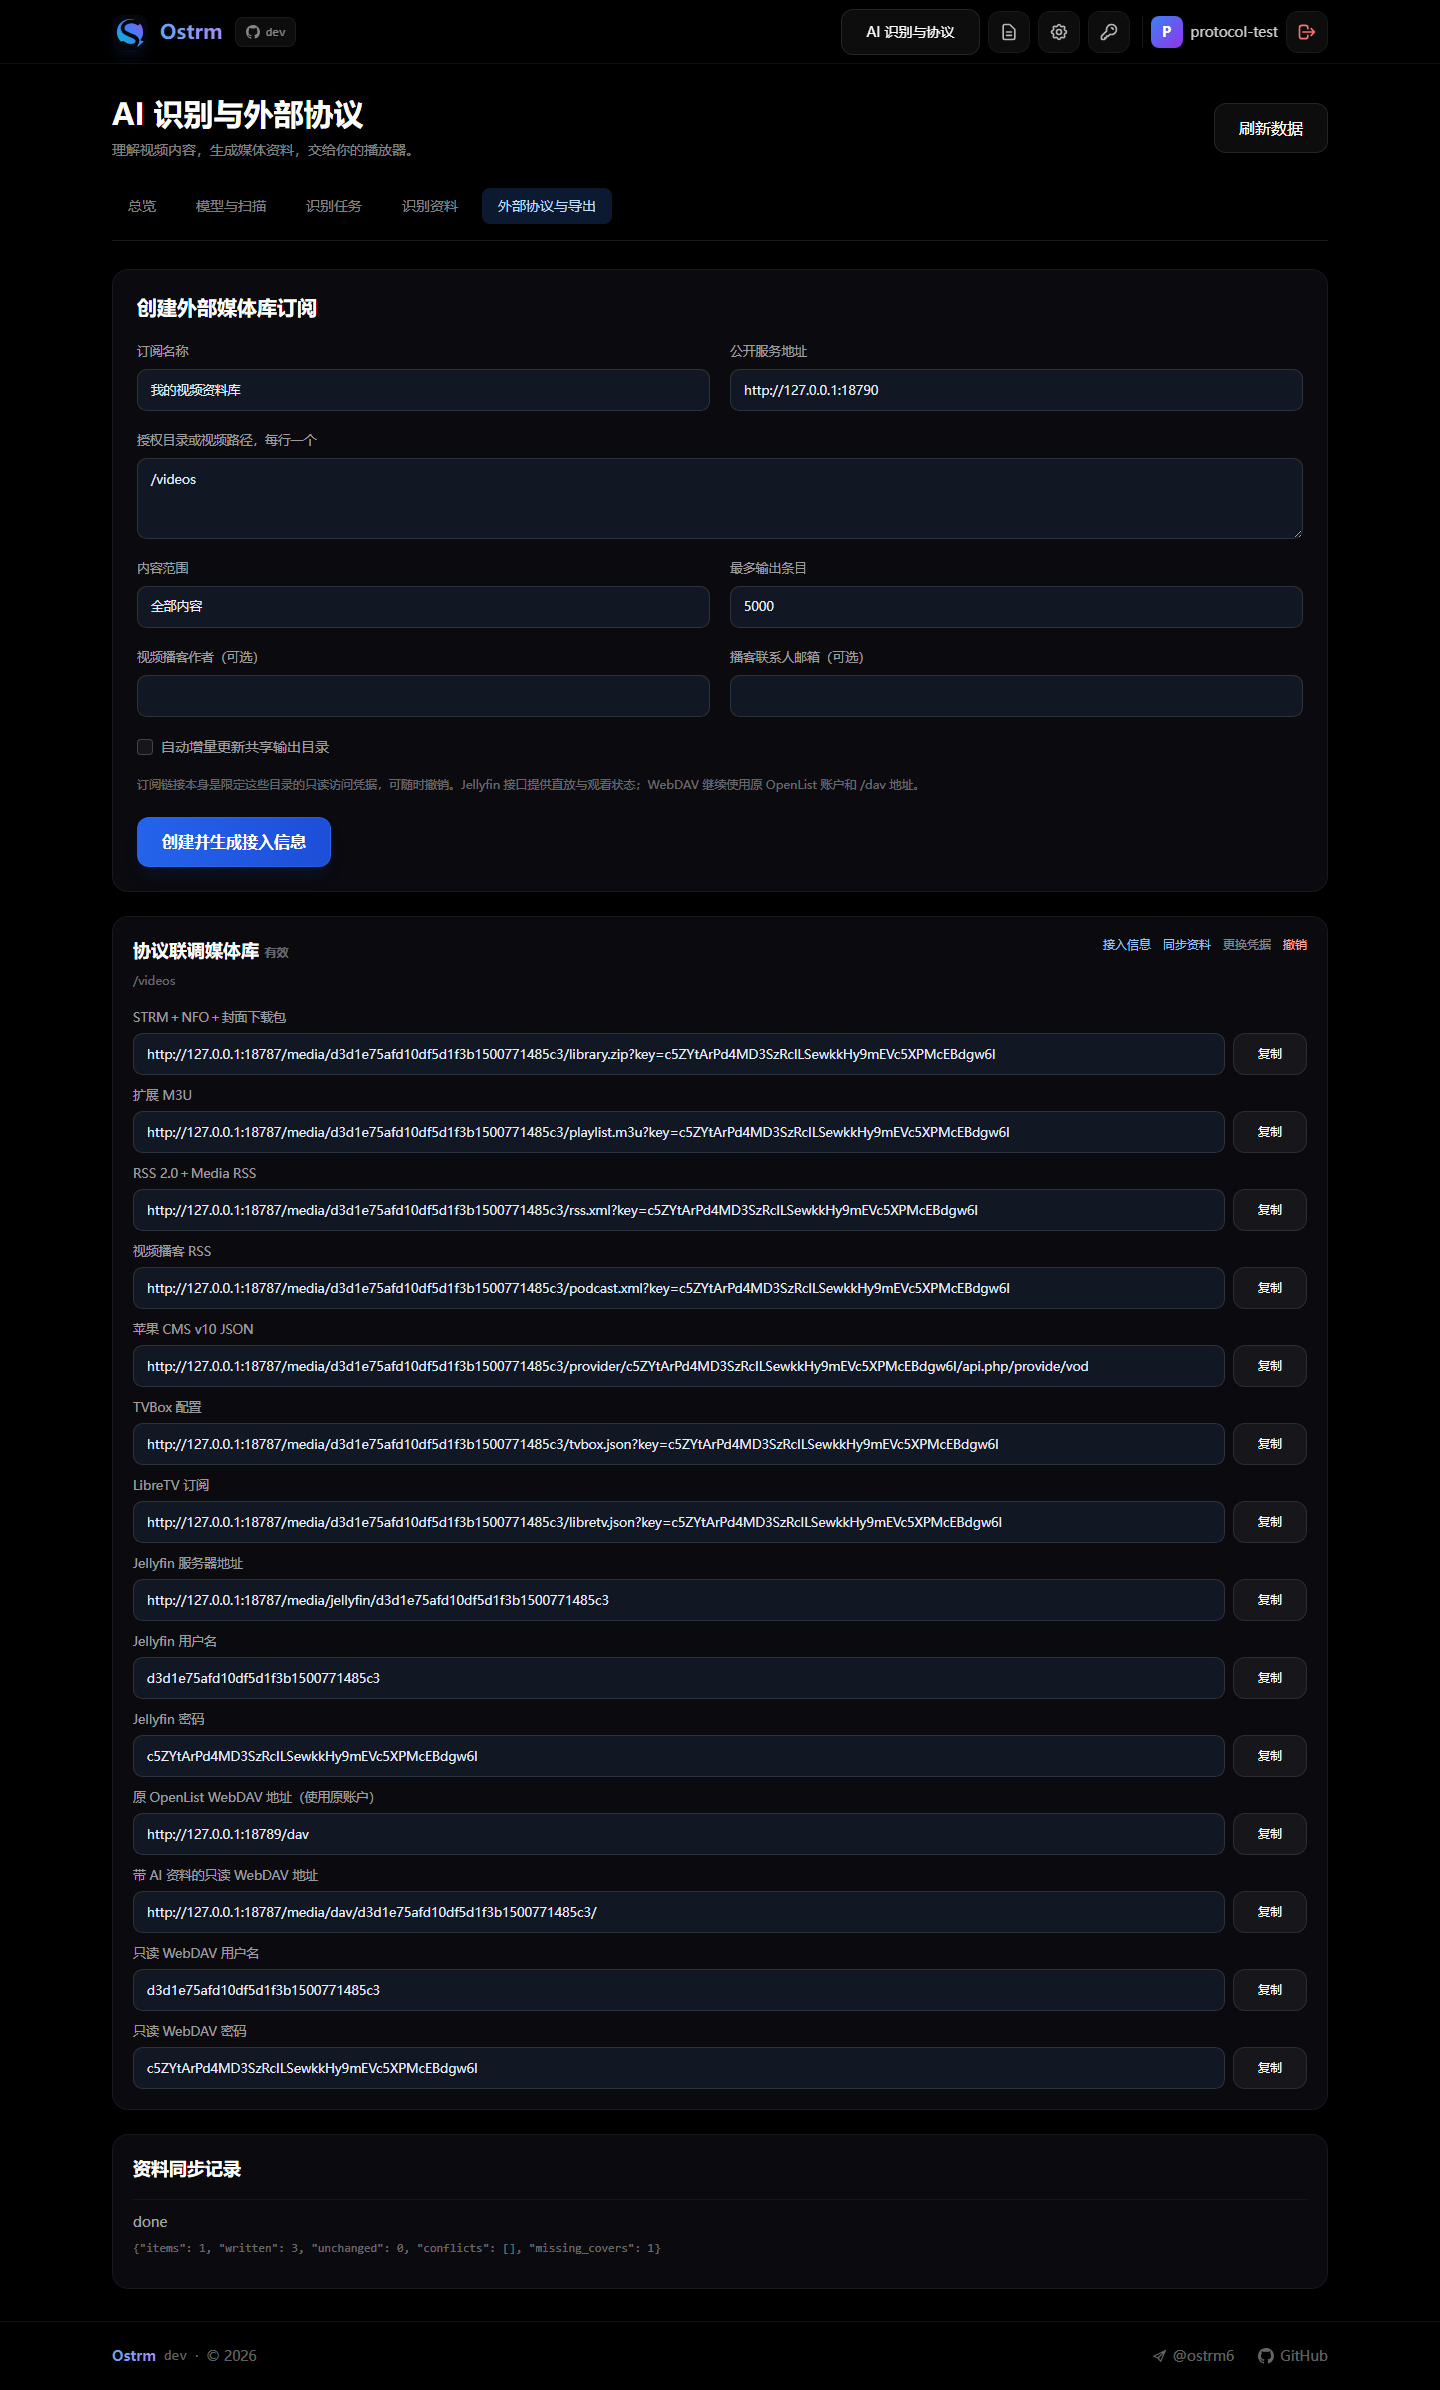
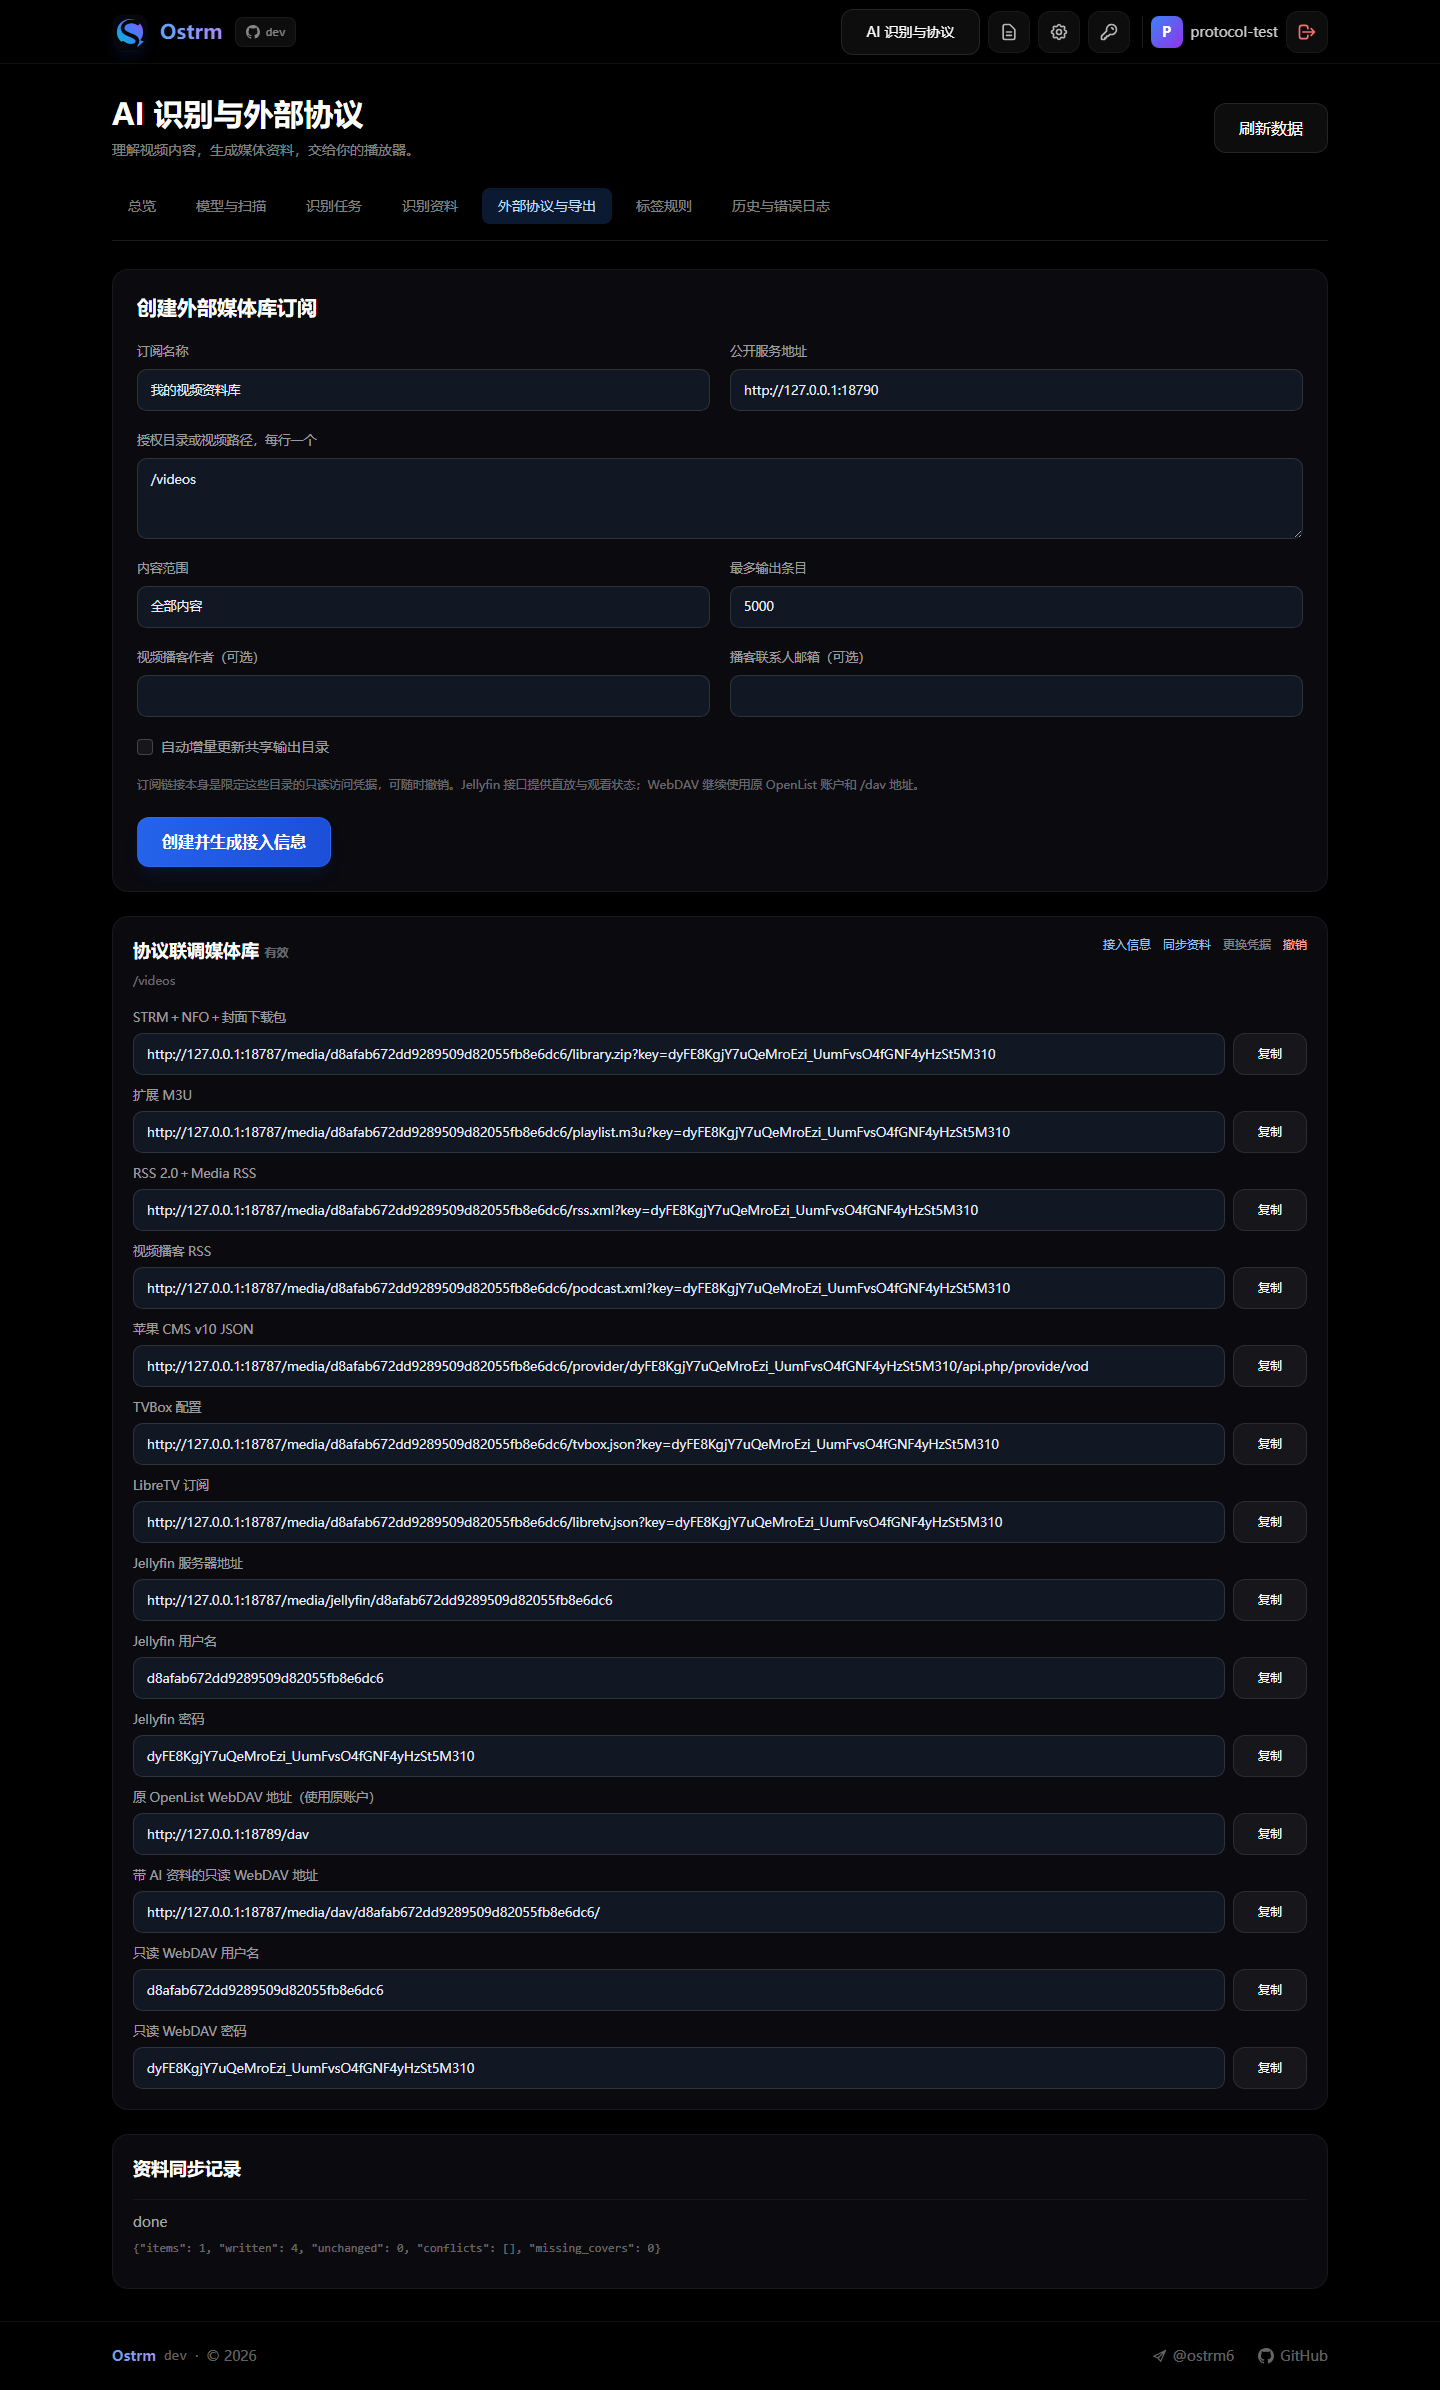
docs: record verified deployment, clients, and real TiDB benchmark

diff --git a/docs/VALIDATION.md b/docs/VALIDATION.md
@@ -1,0 +1,39 @@
+# 交付验证记录
+
+验证日期：2026-11-15。已验证运行代码：`7d6dad587770831f1eb31f9b4eb707582cee4251`。
+
+[完整 CI 运行记录（成功）](https://github.com/imHansiy/ostrm-ai/actions/runs/43679852765)
+
+| 检查 | 实际证据 |
+|---|---|
+| Python | 86 项通过；包括扫描、增量/重试/恢复、权限、标签、字幕、完整视频压缩、协议与批量导出 |
+| Java | 113 项通过；Spotless、bootJar 成功；AI 注册在既有 NFO 处理后执行 |
+| 前端 | Nuxt 生产生成成功；真实 Java JWT + AI API 页面测试覆盖桌面和 390px 移动端 |
+| 管理功能 | 模型设置保存、识别资料查询、同义/常用标签保存、历史日志、导出接入信息均通过页面测试 |
+| Docker | 应用和 AI 两个实际镜像构建成功；Compose 配置检查通过；完整容器经 Caddy 访问的识别/协议链路通过 |
+| 容器持久化 | 实际重启应用和 Worker 容器，原 JWT、订阅凭据、识别结果及观看进度保留 |
+| 外部 SDK | 官方 @jellyfin/sdk 0.13.0 登录、Views、Items、PlaybackInfo、观看进度通过 |
+| 真正的 Jellyfin | jellyfin/jellyfin:10.11.0 实际扫描生成目录，读入 STRM、NFO 简介/标签和主封面 |
+| 格式 | STRM/NFO/AI JSON/JPG、M3U、RSS/Media RSS/播客字段、CMS/TVBox/LibreTV、只读 WebDAV 的结构和访问边界测试通过 |
+| 文件保护 | 路径越界、XML/播放列表注入、手改文件冲突保护、官方 NFO 演员/片名保留、人工标签保留均有回归测试 |
+
+## Serv00 真实环境
+
+在原 OpenList 主机以普通用户运行 Python 伴随服务，模型继续使用在线服务，不安装本地模型，不要求 Docker 或 GPU。没有重启或替换 OpenList 本体。
+
+- Python 协议服务已上线 0.2.0；公网入口为 `/ai/exports`，旧 `/ai/cinema` 跳转到导出管理。
+- 迁移验收前后，TiDB 中 6,383 条视频、6,414 条既有任务数量一致；完成数据库快照与行校验，并保留模块/配置回滚副本。
+- 随后通过公网插件创建并完成识别任务 `#30002`，因此任务总数正常增加到 6,415。使用 OneDrive 现有自然花卉视频，整段时长 9.766666 秒，压缩后 1,313,104 字节，由在线 MiniCPM-V-4.7-35B-A3B 返回中文简介和标签。该记录不是 CI 固定响应。
+- 匹配订阅的 NFO/封面同步任务完成，无冲突、无缺失封面。
+- 公网 OpenList 页面、导出管理与原有管理设置通过浏览器测试；没有加载旧播放器模块。
+- 公网六类导出入口成功，实际视频 HEAD=200、Range=206；Jellyfin 登录后能读取验收视频；WebDAV PROPFIND=207。播客封面实测为 JPEG、1400×1400。
+- 实际重启服务后，原订阅、Jellyfin 会话、观看位置和识别摘要仍存在。
+- 真实 TiDB 上对 1,214 个已识别非成人条目执行批量 ZIP 导出：5,808,680 字节、14.46 秒、31 次远程 SELECT。测试没有重新读取原视频；临时性能验收订阅已清理。该时间是当前主机单次结果，不是所有部署环境的性能承诺。
+
+## 测试范围的边界
+
+CI 使用真实合成 MP4 和固定模型响应，验证视频内容确实进入请求体及系统链路；CI 结果不用于声称模型准确率。真实在线模型另在 Serv00 验证。没有把模型生成的花卉名称等细节当作人工逐项核实的真值。
+
+Jellyfin API 是已测试核心路径的直放兼容层，具有持久观看状态，不提供转码，也不等同于完整 Jellyfin 服务器。物理 Infuse、Kodi、TVBox、Apple Podcasts 客户端没有逐一实机测试；其版本、编码能力、公网源策略和平台收录要求仍需按客户端确认。需要完整媒体服务器能力时，可使用已验证的 STRM/NFO 导入真正的 Jellyfin。
+
+运行截图来自真实前端集成测试，使用合成视频和本地测试凭据；不包含用户的网盘管理凭据或模型密钥。

diff --git a/README.md b/README.md
@@ -142,7 +142,7 @@ uvicorn aitags.app:app --host 127.0.0.1 --port 8787 --workers 1 --no-access-log
 <script defer src="/ai/assets/ai.js"></script>
 ```
 
-打开 `/ai/exports` 管理导出，或 ` /@manage?ai=video-tags&view=settings` 管理识别。旧 `/ai/cinema` 会跳转到资料导出页；不再提供旧影视播放器。可选 `AI_PROXY_ENABLED=true` 用于单端口反代原 OpenList，但生产优先使用现有 nginx/Caddy。需要完整 OStrm Java/Nuxt UI 时，另在具有 Java21/容器条件的主机安装完整版本。
+打开 `/ai/exports` 管理导出，或 `/@manage?ai=video-tags&view=settings` 管理识别。旧 `/ai/cinema` 会跳转到资料导出页；不再提供旧影视播放器。可选 `AI_PROXY_ENABLED=true` 用于单端口反代原 OpenList，但生产优先使用现有 nginx/Caddy。需要完整 OStrm Java/Nuxt UI 时，另在具有 Java21/容器条件的主机安装完整版本。
 
 详细协议、升级、备份与排错见 [AI_PROTOCOLS.md](docs/AI_PROTOCOLS.md)。
 
@@ -167,7 +167,7 @@ npm run ui
 
 Java 需要 21。Windows 下若中文路径导致 Gradle 类路径异常，可 `subst O: 当前仓库绝对路径` 后在 `O:\backend` 执行；测试通过后移除映射。集成测试生成真实合成 MP4、实际压缩并发送视频内容到固定响应的模型接口，验证 Java JWT、队列、协议、HTTP Range 和 FFmpeg 解码；它不衡量模型准确率。GitHub Actions 另构建 AI 镜像、验证生产 Caddy 配置，并启动真正的 Jellyfin 导入 STRM/NFO/海报。
 
-测试结果和未验证范围见 [验证说明](docs/AI_PROTOCOLS.md#验证范围)。所有日常修改在 dev；发布必须 dev → beta → main。
+测试结果和未验证范围见 [实际验证记录](docs/VALIDATION.md)。所有日常修改在 dev；发布必须 dev → beta → main。
 
 ## 致谢与许可证
 

diff --git a/docs/AI_PROTOCOLS.md b/docs/AI_PROTOCOLS.md
@@ -84,6 +84,8 @@ python -m aitags.migrate_tidb --source /原数据目录/aitags.sqlite3
 
 ## 验证范围
 
+最新交付结果与真实 TiDB/在线模型数据见 [VALIDATION.md](VALIDATION.md)。
+
 本地验证包含 Python API/扫描/媒体/权限/协议测试、Java 测试和 Spotless、Nuxt 生产生成、真实 Java 登录桥接与 Python Worker、实际 FFmpeg 压缩与解码、HTTP Range、官方 @jellyfin/sdk 0.13、桌面和 390px 移动端页面操作及溢出检查。集成模型使用固定响应，不向 CI 注入任何真实密钥。
 
 CI 工作流 `.github/workflows/ai-protocols.yml` 在 dev push 时执行，另检查 AI Docker 镜像、Caddy 和真实 Jellyfin 10.11 NFO/海报导入。**具体最新通过状态以 GitHub Actions 为准**，不能将定义了测试等同于已经通过。物理 Infuse/Kodi/TVBox/Apple 客户端和各种网盘视频编码组合未穷尽验证。
